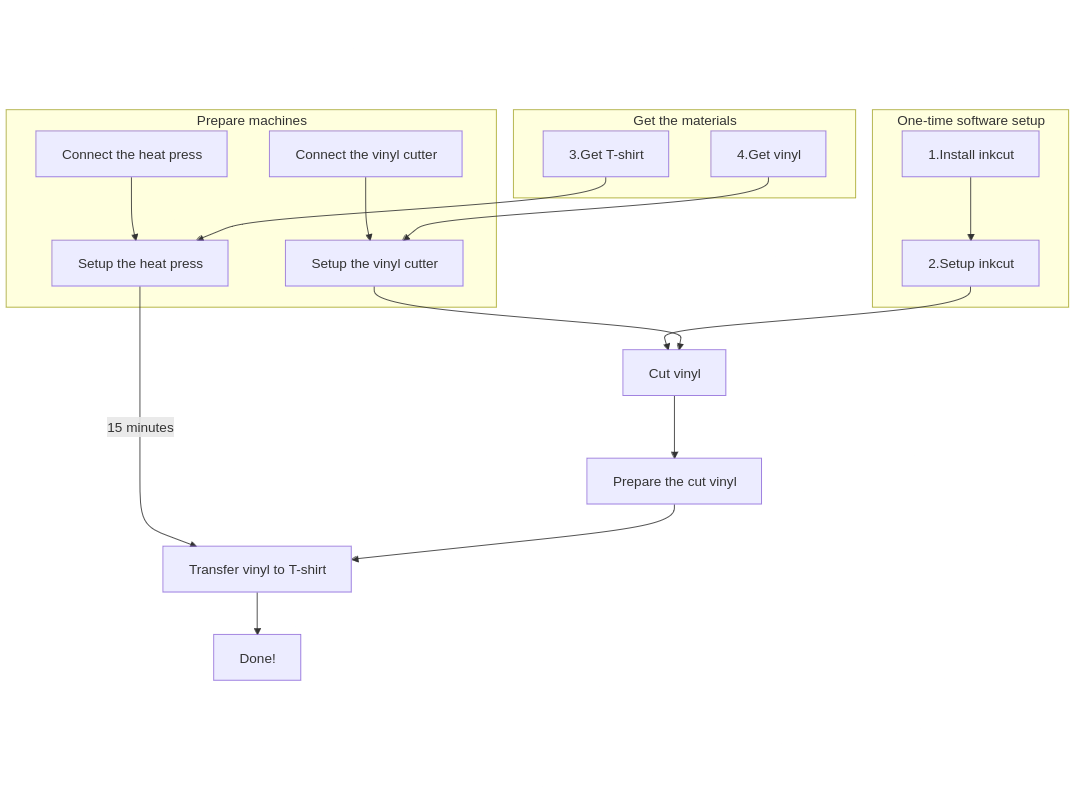
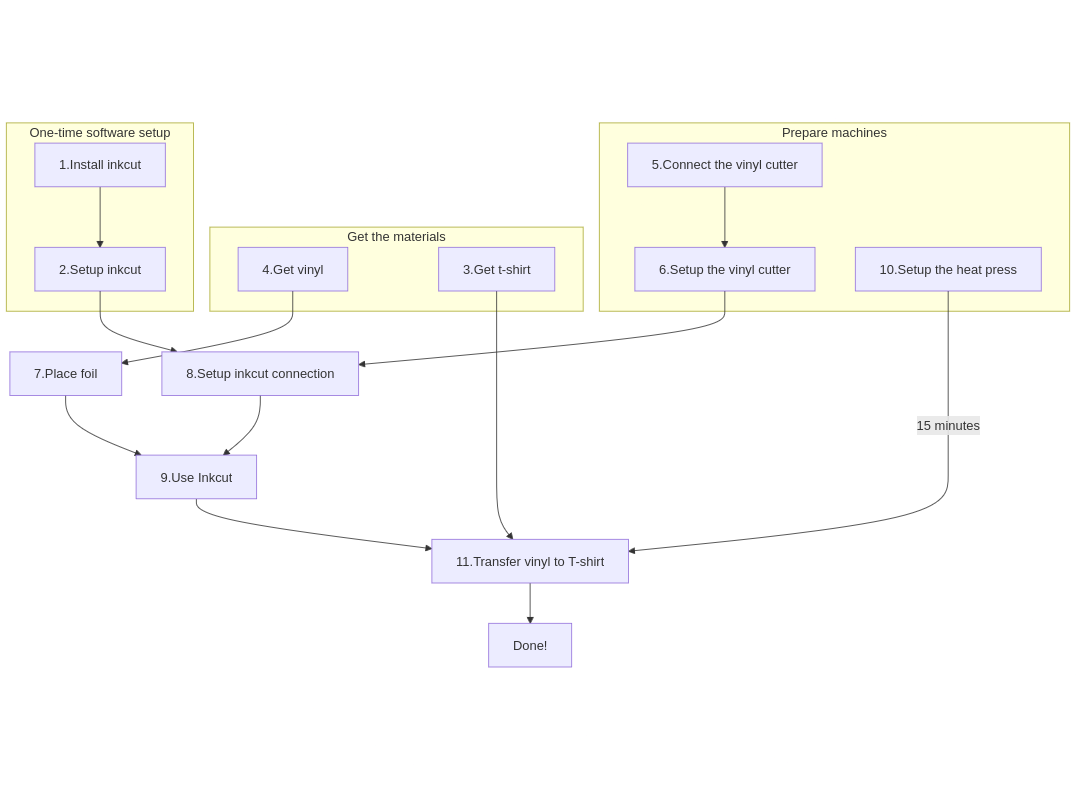
Update overview

diff --git a/docs/steps/procedure.md b/docs/steps/procedure.md
@@ -3,15 +3,3 @@
 ![Overview of the procedure](overview.png)
 
 > Overview of the procedure
-
-1. Install Inkcut
-1. Setup Inkcut
-1. Get T-shirts
-1. Get vinyl
-1. Connect the vinyl cutter
-1. Set up the vinyl cutter
-1. Place foil of vinyl cutter
-1. Set up Inkcut connection
-1. Use Inkcut
-1. Set up heat press
-1. Transfer vinyl to T-shirt
